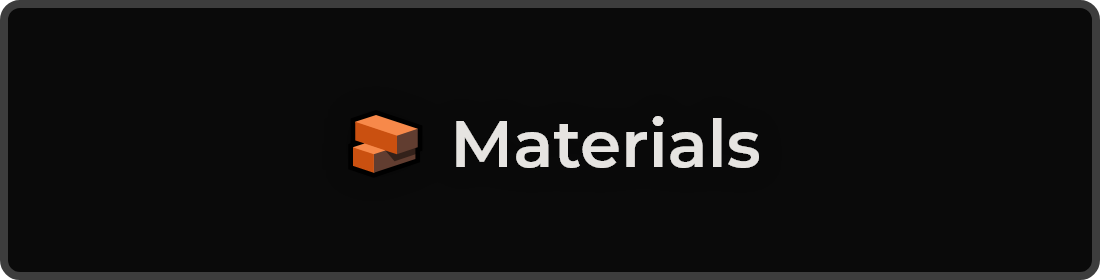
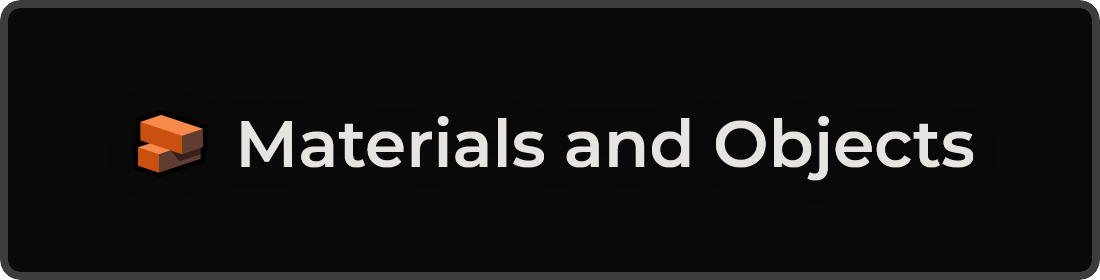
Changed Category Name [🧱 Materials] to [🧱 Materials and Objects]

Changed region(s): [[0.2164, 0.4, 0.8964, 0.6571], [0.1236, 0.4, 0.1855, 0.6286], [0.9891, 0.9429, 1.0, 1.0]]

diff --git a/README.md b/README.md
@@ -254,7 +254,7 @@
 <a href="https://github.com/willwulfken/MidJourney-Styles-and-Keywords-Reference/blob/main/Pages/MJ_V3/Style_Pages/Materials.md"><picture>
   <source media="(prefers-color-scheme: dark)" srcset="https://github.com/willwulfken/MidJourney-Styles-and-Keywords-Reference/blob/main/Images/Repo_Parts/Main_Page/style_buttons/button_style_materials.png?raw=true" width = 250>
   <source media="(prefers-color-scheme: light)" srcset="https://github.com/willwulfken/MidJourney-Styles-and-Keywords-Reference/blob/main/Images/Repo_Parts/Main_Page/style_buttons/button_style_materials_light.png?raw=true" width = 250>
-  <img alt="🧱 Materials" src="https://github.com/willwulfken/MidJourney-Styles-and-Keywords-Reference/blob/main/Images/Repo_Parts/Main_Page/style_buttons/button_style_materials.png?raw=true" width = 250>
+  <img alt="🧱 Materials and Objects" src="https://github.com/willwulfken/MidJourney-Styles-and-Keywords-Reference/blob/main/Images/Repo_Parts/Main_Page/style_buttons/button_style_materials.png?raw=true" width = 250>
 </picture></a>
 <a href="https://github.com/willwulfken/MidJourney-Styles-and-Keywords-Reference/blob/main/Pages/MJ_V3/Style_Pages/Material_Properties.md"><picture>
   <source media="(prefers-color-scheme: dark)" srcset="https://github.com/willwulfken/MidJourney-Styles-and-Keywords-Reference/blob/main/Images/Repo_Parts/Main_Page/style_buttons/button_style_material_properties.png?raw=true" width = 250>

diff --git a/Pages/MJ_V2/Style_Pages/Materials.md b/Pages/MJ_V2/Style_Pages/Materials.md
@@ -1,4 +1,4 @@
-<h2>🧱 Materials</h2>
+<h2>🧱 Materials and Objects</h2>
 
 <div align="center">
 

diff --git a/Pages/MJ_V3/Style_Pages/Just_The_Style/Materials.md b/Pages/MJ_V3/Style_Pages/Just_The_Style/Materials.md
@@ -1,4 +1,4 @@
-<h2>🧱 Materials</h2>
+<h2>🧱 Materials and Objects</h2>
 
 <div align="center">
 

diff --git a/Pages/MJ_V3/Style_Pages/Materials.md b/Pages/MJ_V3/Style_Pages/Materials.md
@@ -1,4 +1,4 @@
-<h2>🧱 Materials</h2>
+<h2>🧱 Materials and Objects</h2>
 
 <div align="center">
 
